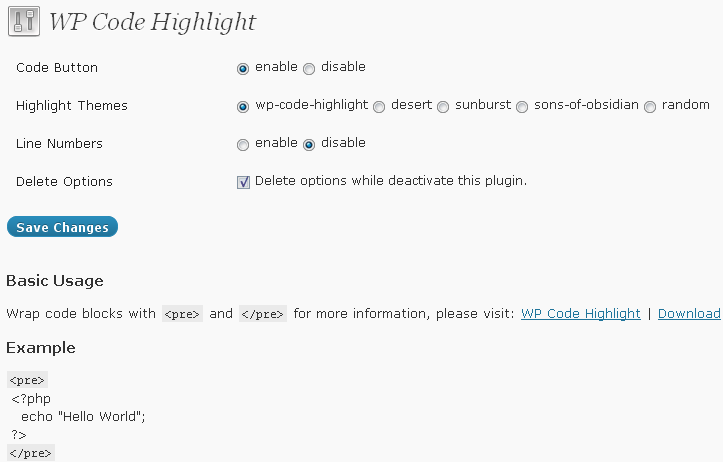
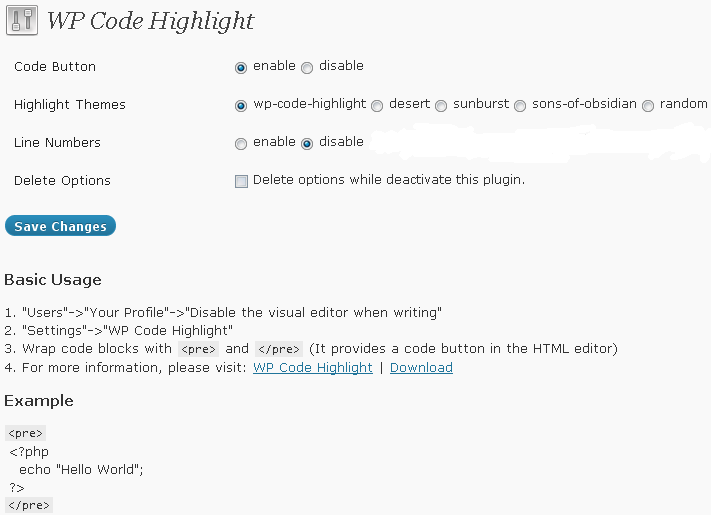
version 1.2.4

diff --git a/wp_code_highlight_admin.php b/wp_code_highlight_admin.php
@@ -6,7 +6,6 @@ function wp_code_highlight_options(){
 	add_option('wp_code_highlight_button','enable');
     add_option('wp_code_highlight_themes','wp-code-highlight');
 	add_option('wp_code_highlight_line_numbers','disable');
-	add_option('wp_code_highlight_deactivate','yes');
 ?>
 <div class="wrap">
 	
@@ -98,7 +97,10 @@ function wp_code_highlight_options(){
 </form>
 
 <h3>Basic Usage</h3>
-Wrap code blocks with <code>&lt;pre&gt;</code> and <code>&lt;/pre&gt;</code> for more information, please visit: <a href="http://boliquan.com/wp-code-highlight/" target="_blank">WP Code Highlight</a> | <a href="http://wordpress.org/extend/plugins/wp-code-highlight/" target="_blank">Download</a>
+1. "Users"->"Your Profile"->"Disable the visual editor when writing"<br />
+2. "Settings"->"WP Code Highlight"<br />
+3. Wrap code blocks with <code>&lt;pre&gt;</code> and <code>&lt;/pre&gt;</code> (It provides a code button in the HTML editor)<br />
+4. For more information, please visit: <a href="http://boliquan.com/wp-code-highlight/" target="_blank">WP Code Highlight</a> | <a href="http://wordpress.org/extend/plugins/wp-code-highlight/" target="_blank">Download</a>
 
 <h3>Example</h3>
 <code>&lt;pre&gt;</code><br />
@@ -107,14 +109,23 @@ Wrap code blocks with <code>&lt;pre&gt;</code> and <code>&lt;/pre&gt;</code> for
 &nbsp;?&gt;<br />
 <code>&lt;/pre&gt;</code>
 
+<h3>Other Plugins</h3>
+1. <a href="http://boliquan.com/wp-anti-spam/" target="_blank">WP Anti Spam</a> | <a href="http://wordpress.org/extend/plugins/wp-anti-spam/" target="_blank">Download</a><br />
+2. <a href="http://boliquan.com/yg-share/" target="_blank">YG Share</a> | <a href="http://wordpress.org/extend/plugins/yg-share/" target="_blank">Download</a>
+
 <br /><br />
-<?php $paypal_url = plugins_url('/img/paypal_32_32.jpg', __FILE__);?>
-<?php $blq_donate_url = plugins_url('/img/btn_donateCC_LG.gif', __FILE__);?>
-<div class="icon32"><img src="<?php echo $paypal_url; ?>" alt="Paypal" /></div>
+<?php $donate_url = plugins_url('/img/paypal_32_32.jpg', __FILE__);?>
+<?php $paypal_donate_url = plugins_url('/img/btn_donateCC_LG.gif', __FILE__);?>
+<?php $ali_donate_url = plugins_url('/img/btn-index.png', __FILE__);?>
+<div class="icon32"><img src="<?php echo $donate_url; ?>" alt="Donate" /></div>
 <h2>Donate</h2>
-If you find my work useful and you want to encourage the development of more free resources, you can do it by donating.
 <p>
-<a href="https://www.paypal.com/cgi-bin/webscr?cmd=_donations&business=SKA6TPPWSATKG&item_name=BoLiQuan&no_shipping=0&no_note=1&tax=0&currency_code=USD&lc=CA&bn=PP%2dDonationsBF&charset=UTF%2d8" target="_blank"><img src="<?php echo $blq_donate_url; ?>" alt="Donate" /></a>
+If you find my work useful and you want to encourage the development of more free resources, you can do it by donating.
+</p>
+<p>
+<a href="https://www.paypal.com/cgi-bin/webscr?cmd=_donations&business=SKA6TPPWSATKG&item_name=BoLiQuan&no_shipping=0&no_note=1&tax=0&currency_code=USD&lc=CA&bn=PP%2dDonationsBF&charset=UTF%2d8" target="_blank"><img src="<?php echo $paypal_donate_url; ?>" alt="Paypal Donate" title="Paypal" /></a>
+&nbsp;
+<a href="https://me.alipay.com/boliquan" target="_blank"><img src="<?php echo $ali_donate_url; ?>" alt="Alipay Donate" title="Alipay" /></a>
 </p>
 <br />
 

diff --git a/wp-code-highlight.php b/wp-code-highlight.php
@@ -3,7 +3,7 @@
 Plugin Name: WP Code Highlight
 Plugin URI: http://boliquan.com/wp-code-highlight/
 Description: WP Code Highlight provides clean syntax highlighting and it also provides a code button. Wrap code blocks with <code>&lt;pre&gt;</code> and <code>&lt;/pre&gt;</code>
-Version: 1.2.3
+Version: 1.2.4
 Author: BoLiQuan
 Author URI: http://boliquan.com/
 Text Domain: WP-Code-Highlight
